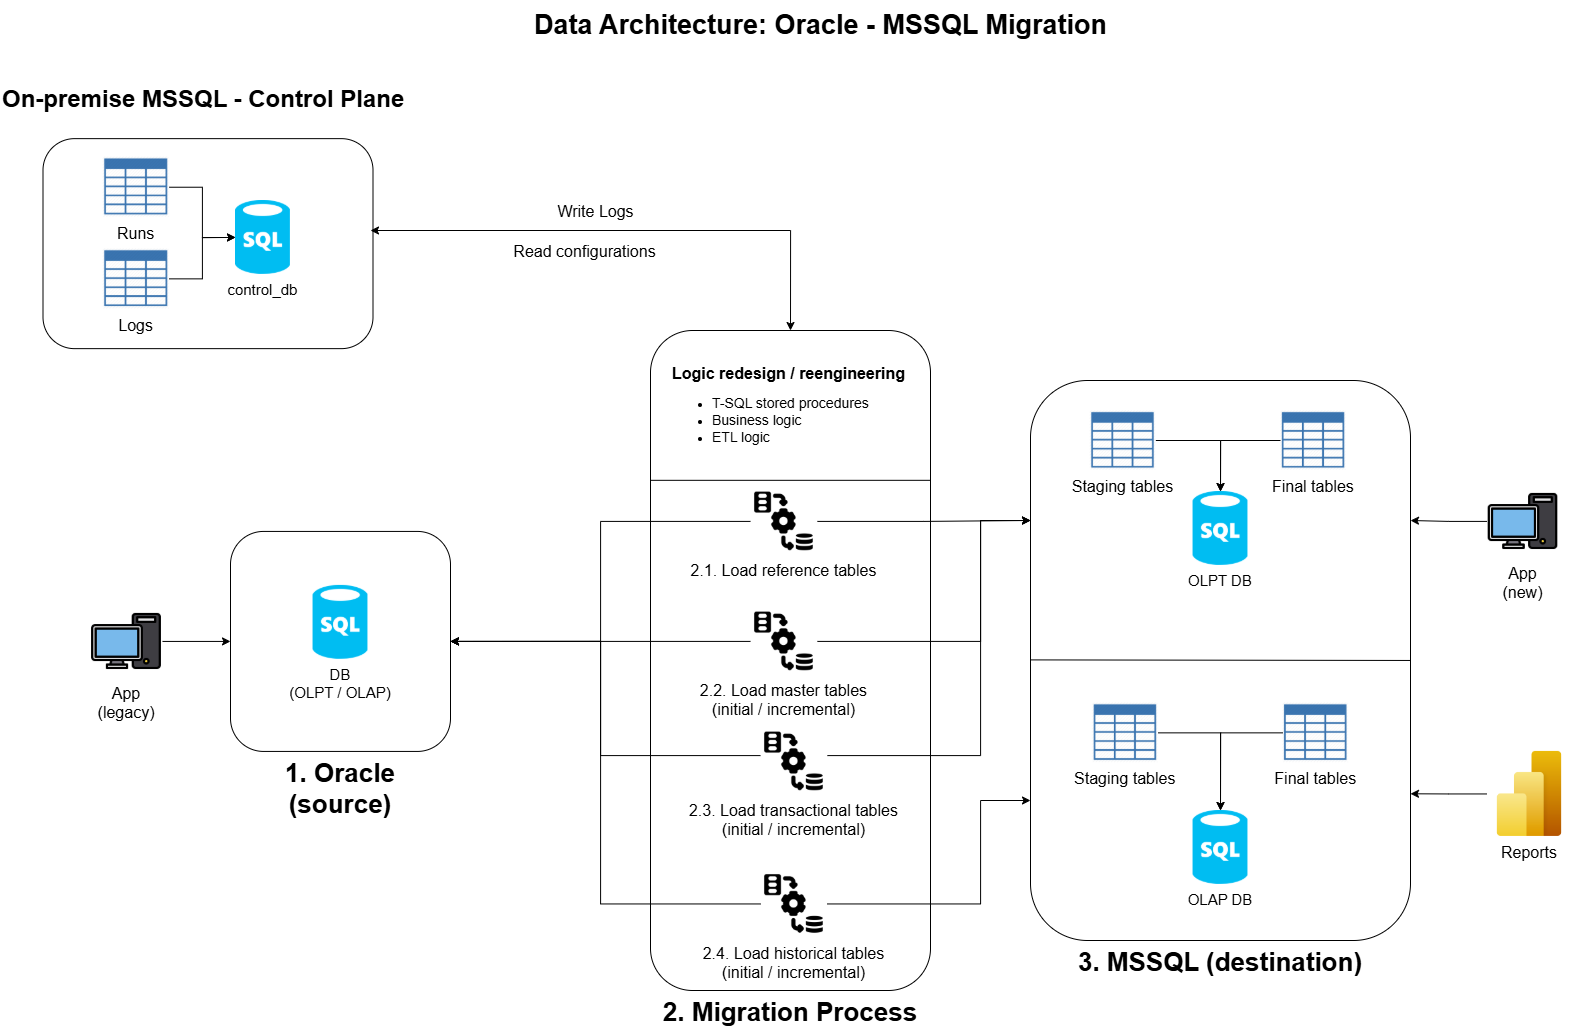
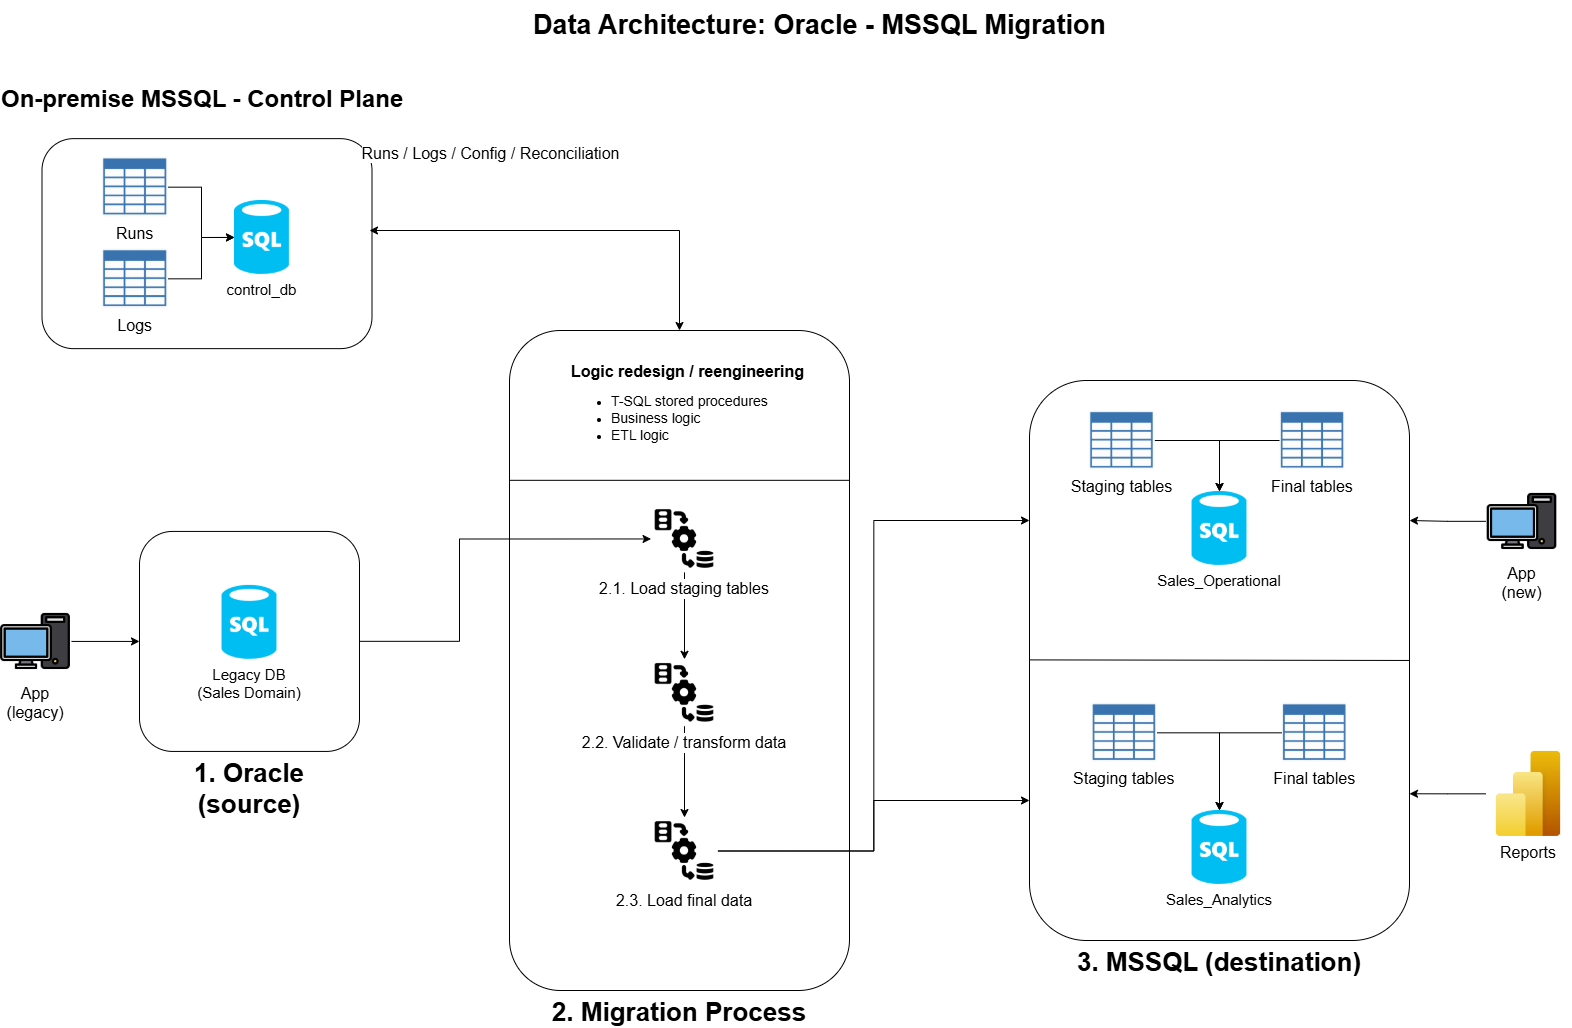
update solution plan file

diff --git a/on_premise/oracle_mssql_migration/README.md b/on_premise/oracle_mssql_migration/README.md
@@ -7,18 +7,14 @@ This project defines the target architecture and migration approach for moderniz
 
 The migration is driven by the implementation of a new **web platform** that requires a new SQL Server-based data layer for operational processing. The legacy Oracle environment remains the source of existing business data, while the new platform becomes the target application environment.
 
-The source environment is an Oracle-adapted implementation of the **AdventureWorks2022** model under schema `ADVENTUREWORKS2022`. Although the source database contains multiple functional areas, the current migration scope is limited to **Sales** and to the supporting entities required by the target design.
+The source environment is an Oracle-adapted implementation of the **AdventureWorks2022** model under schema `ADVENTUREWORKS2022`, tested on **Oracle XE 21c**. Although the source database contains multiple functional areas, the current migration scope is limited to **Sales** and to the supporting entities required by the target design.
 
-The target solution is designed to provide:
+The target solution provides:
 - A new SQL Server 2022 operational database for the web platform
 - A separate analytical database for reporting and historical analysis
 - Controlled migration processes for initial and incremental loads
 - Explicit and maintainable target-side logic
 - Execution tracking, reconciliation, and restartability
-
-The resulting solution must support both:
-- Data migration from the legacy Oracle source
-- Ongoing operation of the new web platform against the SQL Server target
 
 ## 2. Architecture
 
@@ -83,7 +79,7 @@ Data is migrated through staged processes that support:
 - Controlled cutover
 - Initial and incremental loading
 
-## 4. Scope of the Sales Domain
+## 4. Project Scope
 
 The current project is centered on the **Sales domain**.
 
@@ -138,7 +134,21 @@ This supports:
 - Operational monitoring
 - Production cutover readiness
 
-## 8. Migration Outcome
+## 8. Limitations and Out of Scope
+
+This project focuses on the migration architecture and target solution design for the Sales domain.
+
+The following topics are outside the scope of this project:
+- Evaluation of alternative target database platforms
+- Evaluation of alternative application architectures
+- Detailed justification of why the web platform was selected
+- Detailed justification of why SQL Server 2022 was selected
+- Full migration of all functional areas from the source database
+- Production infrastructure sizing, licensing, and cost analysis
+
+These items are treated as project inputs rather than design decisions to be evaluated in this document.
+
+## 9. Migration Outcome
 
 The final solution provides:
 - A new SQL Server-based operational platform for the Sales domain

diff --git a/on_premise/oracle_mssql_migration/docs/solution.md b/on_premise/oracle_mssql_migration/docs/solution.md
@@ -2,7 +2,7 @@
 
 ## Overview
 
-This document defines the technical design for migrating the **Sales domain** from Oracle Database 11g Release 2 to SQL Server 2022.
+This document defines the technical design for migrating the **Sales domain** from Oracle XE 21c to SQL Server 2022.
 
 The source environment is an Oracle-adapted implementation of the **AdventureWorks2022** model under schema `ADVENTUREWORKS2022`. Although the source includes multiple functional areas, the current scope is limited to **Sales** and the supporting entities required by the target design.
 
@@ -85,7 +85,7 @@ Where applicable, final tables should include technical columns such as:
 
 The solution is implemented using the following components:
 
-- **Source platform**: Oracle Database 11g Release 2
+- **Source platform**: Oracle XE 21c
 - **Target platform**: SQL Server 2022
 - **ETL tool**: SQL Server Integration Services (SSIS)
 - **Development environment**: Visual Studio 2026 version 18.4